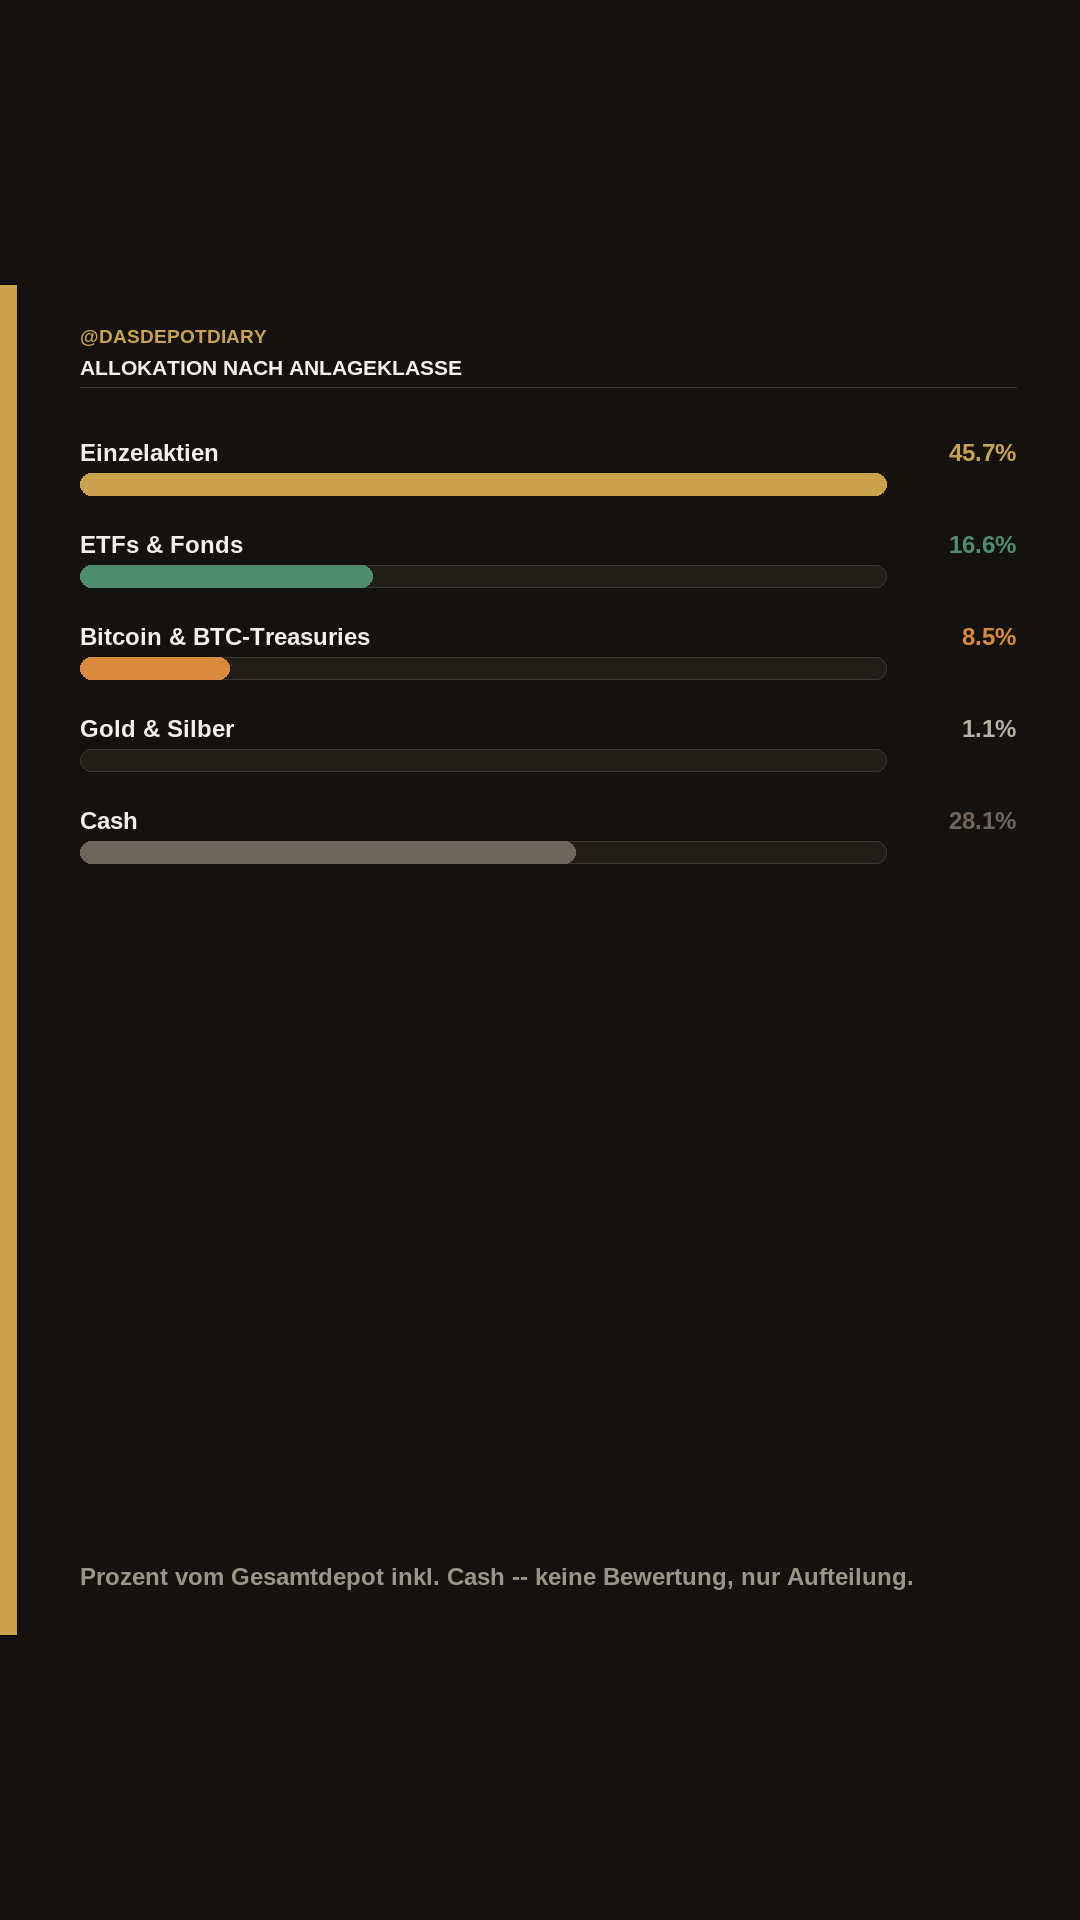
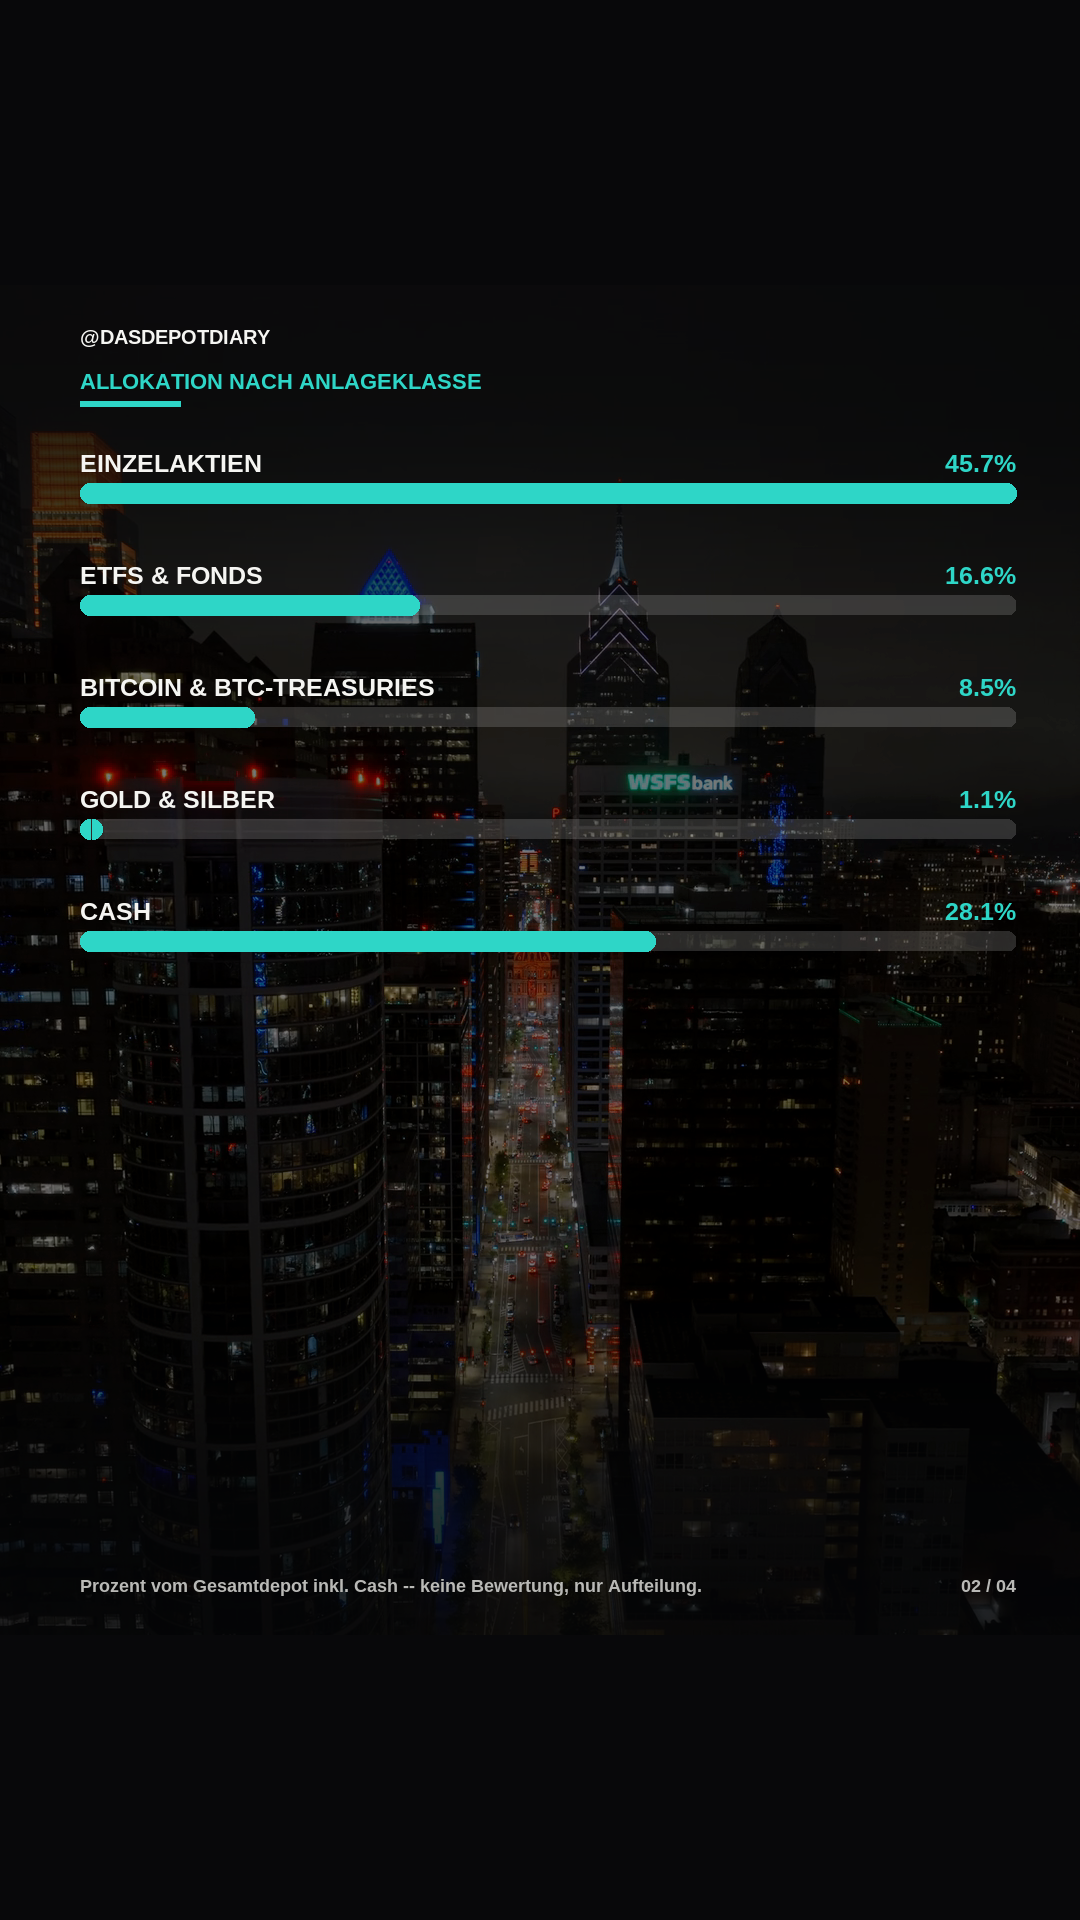
Portfolio-Update im Vermoegensingenieur-Design (dunkle Nacht-Skyline, Teal-Akzent, Pinselstrich) auf Nutzerwunsch. Fire-Zeiten der 4 heutigen Story-Eintraege vorgezogen, damit sie jetzt sofort statt erst am Nachmittag/Abend rausgehen.

diff --git a/posts/personal_portfolio_percent_update.py b/posts/personal_portfolio_percent_update.py
@@ -2,11 +2,12 @@
 Anlageklasse + Top-Positionen, aus den echten (selbst gepflegten) Depot-
 Daten unter data/depot_2026-08.json.
 
-Design: dunkles Creme/Gold, gleiche visuelle Familie wie
-posts/personal_portfolio_update.py (DEPOT-UPDATE). Ein Skyline-Foto+Glas-
-Varianten wurde 2026-09-26 ausprobiert, Nutzer-Feedback aber: "das Depot-
-Allokation hat im alten Stile gepasst" -- also bewusst wieder bei diesem
-flachen Stil geblieben.
+v3 (2026-09-26, Nutzerwunsch: "mach bitte bei meiner Allokation den
+Vermoegensingenieur-Design anwenden"): visuelle Sprache von
+posts/collab_vermoegensingenieur_10k.py uebernommen -- stark abgedunkeltes
+echtes Foto (naechtliche Skyline), fette weisse Grossbuchstaben-Headlines,
+Teal/Cyan-Akzent mit Pinselstrich-Unterstreichung. Eigenstaendig zugeschnitten,
+nicht 1:1 kopiert.
 
 Reine Offenlegung der eigenen Aufteilung -- keine Kursziele, keine Kauf-/
 Verkaufsempfehlung (siehe CLAUDE.md-Regel).
@@ -18,7 +19,7 @@ import json
 import sys
 from pathlib import Path
 
-from PIL import Image, ImageDraw, ImageFont
+from PIL import Image, ImageDraw, ImageEnhance, ImageFilter, ImageFont
 
 sys.path.insert(0, str(Path(__file__).parent.parent))
 import brand as B
@@ -33,27 +34,19 @@ TT_DIR.mkdir(parents=True, exist_ok=True)
 
 W, H = B.FEED_SIZE
 
-BG = "#14120F"
-CARD = "#211E19"
-CARD_BORDER = "#3A352C"
-CREAM = "#F2F0EA"
-MUTED = "#9B9587"
-GOLD = "#C9A24B"
+CREAM = (245, 245, 242)
+MUTED = (185, 185, 182)
+TEAL = (46, 214, 199)
+TRACK = (255, 255, 255, 40)
 
 OWN_HANDLE = "@DASDEPOTDIARY"
-SERIES_TITLE = "DEPOT-UPDATE"
 
-# Feste Kategorie-Reihenfolge + eigene Farbe je Kategorie (kategorial, nicht zyklisch)
-CATEGORY_COLORS = {
-    "Einzelaktien": "#C9A24B",
-    "ETFs & Fonds": "#4E8C6E",
-    "Bitcoin & BTC-Treasuries": "#D98A3D",
-    "Gold & Silber": "#B7B1A4",
-    "Cash": "#6E645A",
-}
-
+# Feste Kategorie-Reihenfolge -- eine Akzentfarbe (Teal) fuer alle Balken,
+# konsistent mit dem Vermoegensingenieur-Stil (eine Signalfarbe, nicht bunt).
 DATA = json.loads((ROOT / "data" / "depot_2026-08.json").read_text(encoding="utf-8"))
 STAND = "14.08.2026"
+
+_SKYLINE_SRC = Image.open(ROOT / "assets" / "skyline_still_1.png").convert("RGB")
 
 
 def font(path, size):
@@ -76,125 +69,160 @@ def wrap_text(draw, text, f, max_w):
     return lines
 
 
-def build_header(draw, subtitle=SERIES_TITLE):
-    y = 40
-    handle_font = font(B.SANS_BOLD, 19)
-    title_font = font(B.SANS_BOLD, 21)
-    draw.text((B.MARGIN_LEFT, y), OWN_HANDLE, font=handle_font, fill=GOLD)
-    y += 30
-    draw.text((B.MARGIN_LEFT, y), subtitle, font=title_font, fill=CREAM)
-    y += 32
-    draw.line([(B.MARGIN_LEFT, y), (W - B.MARGIN_RIGHT, y)], fill=CARD_BORDER, width=1)
-    return y + 22
+def photo_background(seed=1):
+    src = _SKYLINE_SRC
+    sw, sh = src.size
+    scale = max(W / sw, H / sh)
+    resized = src.resize((int(sw * scale), int(sh * scale)))
+    x_off = int((resized.width - W) * (0.3 + 0.1 * (seed % 3)))
+    y_off = int((resized.height - H) * 0.2)
+    cropped = resized.crop((x_off, y_off, x_off + W, y_off + H))
+    darkened = ImageEnhance.Brightness(cropped).enhance(0.42)
+    darkened = ImageEnhance.Contrast(darkened).enhance(1.15)
+    img = darkened.convert("RGB")
+    vignette = Image.new("L", (W, H), 0)
+    vdraw = ImageDraw.Draw(vignette)
+    vdraw.rectangle([0, 0, W, 260], fill=180)
+    vdraw.rectangle([0, H - 220, W, H], fill=180)
+    vignette = vignette.filter(ImageFilter.GaussianBlur(80))
+    black = Image.new("RGB", (W, H), (5, 6, 8))
+    img.paste(black, (0, 0), vignette)
+    return img
 
 
-def draw_disclaimer(draw, text="Keine Anlageberatung -- nur, wie ich selbst aufgestellt bin."):
-    disclaimer_font = font(B.SANS_BOLD, 24)
-    lines = wrap_text(draw, text, disclaimer_font, W - B.MARGIN_LEFT - B.MARGIN_RIGHT)
-    dy = H - 40 - 32 * len(lines)
+def base_slide(seed=1):
+    img = photo_background(seed)
+    draw = ImageDraw.Draw(img)
+    return img, draw
+
+
+def brush_underline(draw, x, y, w, color=TEAL, thickness=8):
+    draw.line([(x, y), (x + w, y)], fill=color, width=thickness)
+
+
+def build_header(draw, y=40):
+    handle_font = font(B.SANS_BOLD, 20)
+    draw.text((B.MARGIN_LEFT, y), OWN_HANDLE, font=handle_font, fill=CREAM)
+    return y + 44
+
+
+def draw_footer(draw, idx, n_total, text="Keine Anlageberatung -- nur, wie ich selbst aufgestellt bin."):
+    disclaimer_font = font(B.SANS_BOLD, 18)
+    lines = wrap_text(draw, text, disclaimer_font, W - B.MARGIN_LEFT - B.MARGIN_RIGHT - 100)
+    dy = H - 36 - 24 * len(lines)
     for line in lines:
         draw.text((B.MARGIN_LEFT, dy), line, font=disclaimer_font, fill=MUTED)
-        dy += 32
+        dy += 24
+    page_font = font(B.SANS_BOLD, 18)
+    page_text = f"{idx:02d} / {n_total:02d}"
+    pw = draw.textlength(page_text, font=page_font)
+    draw.text((W - B.MARGIN_RIGHT - pw, H - 36 - 24 * len(lines)), page_text, font=page_font, fill=MUTED)
+
+
+def bar_row(img, draw, x, y, w, label, pct, max_pct, bar_h=20):
+    label_font = font(B.SANS_BOLD, 25)
+    draw.text((x, y), label, font=label_font, fill=CREAM)
+    pct_font = font(B.SANS_BOLD, 25)
+    pct_text = f"{pct:.1f}%"
+    pw = draw.textlength(pct_text, font=pct_font)
+    draw.text((x + w - pw, y), pct_text, font=pct_font, fill=TEAL)
+    by = y + 34
+    track = Image.new("RGBA", (w, bar_h), (0, 0, 0, 0))
+    tdraw = ImageDraw.Draw(track)
+    tdraw.rounded_rectangle([0, 0, w, bar_h], radius=bar_h // 2, fill=TRACK)
+    img.paste(track, (int(x), int(by)), track)
+    bar_w = max(bar_h, int(w * pct / max_pct))
+    draw.rounded_rectangle([x, by, x + bar_w, by + bar_h], radius=bar_h // 2, fill=TEAL)
+    return by + bar_h
 
 
 def slide_intro():
-    img = Image.new("RGB", (W, H), BG)
-    draw = ImageDraw.Draw(img)
-    build_header(draw, subtitle="NEUE FOLGE")
-    draw.rectangle([0, 0, B.BAR_WIDTH, H], fill=GOLD)
+    img, draw = base_slide(seed=1)
+    y = build_header(draw)
 
-    y = 420
-    draw.text((B.MARGIN_LEFT, y), "Portfolio-Update.", font=font(B.SANS_BOLD, 58), fill=CREAM)
+    eyebrow_font = font(B.SANS_BOLD, 20)
+    draw.text((B.MARGIN_LEFT, y), "NEUE FOLGE", font=eyebrow_font, fill=TEAL)
+    y += 60
+
+    draw.text((B.MARGIN_LEFT, y), "PORTFOLIO-", font=font(B.SANS_BOLD, 70), fill=CREAM)
+    y += 80
+    draw.text((B.MARGIN_LEFT, y), "UPDATE.", font=font(B.SANS_BOLD, 70), fill=CREAM)
     y += 78
-    draw.text((B.MARGIN_LEFT, y), "Wie ich aktuell aufgestellt bin --", font=font(B.SANS_BOLD, 30), fill=GOLD)
-    y += 40
-    draw.text((B.MARGIN_LEFT, y), "mit echten Prozentzahlen.", font=font(B.SANS_BOLD, 30), fill=GOLD)
-    y += 56
-    draw.text((B.MARGIN_LEFT, y), f"Stand: {STAND}", font=font(B.SANS_BOLD, 22), fill=MUTED)
+    brush_underline(draw, B.MARGIN_LEFT, y, 170, thickness=9)
+    y += 50
 
-    draw_disclaimer(draw)
+    sub_font = font(B.SANS_BOLD, 26)
+    for line in wrap_text(draw, "Wie ich aktuell aufgestellt bin -- mit echten Prozentzahlen.",
+                           sub_font, W - B.MARGIN_LEFT - B.MARGIN_RIGHT):
+        draw.text((B.MARGIN_LEFT, y), line, font=sub_font, fill=MUTED)
+        y += 34
+    y += 20
+    draw.text((B.MARGIN_LEFT, y), f"Stand: {STAND}", font=font(B.SANS_BOLD, 21), fill=MUTED)
+
+    draw_footer(draw, 1, 4)
     return img
 
 
 def slide_allocation():
-    img = Image.new("RGB", (W, H), BG)
-    draw = ImageDraw.Draw(img)
-    y = build_header(draw, subtitle="ALLOKATION NACH ANLAGEKLASSE")
-    draw.rectangle([0, 0, B.BAR_WIDTH, H], fill=GOLD)
+    img, draw = base_slide(seed=2)
+    y = build_header(draw)
+
+    label_font = font(B.SANS_BOLD, 22)
+    draw.text((B.MARGIN_LEFT, y), "ALLOKATION NACH ANLAGEKLASSE", font=label_font, fill=TEAL)
+    y += 34
+    brush_underline(draw, B.MARGIN_LEFT, y, 100, thickness=6)
+    y += 46
 
     cats = DATA["categories_mit_cash"]
     max_pct = max(c["percent"] for c in cats)
-    bar_left = B.MARGIN_LEFT
-    bar_max_w = W - B.MARGIN_LEFT - B.MARGIN_RIGHT - 130
-    row_h = 92
-    y += 30
-
+    bar_w = W - B.MARGIN_LEFT - B.MARGIN_RIGHT
     for c in cats:
-        color = CATEGORY_COLORS.get(c["label"], GOLD)
-        label_font = font(B.SANS_BOLD, 24)
-        draw.text((bar_left, y), c["label"], font=label_font, fill=CREAM)
-        pct_font = font(B.SANS_BOLD, 24)
-        pct_text = f"{c['percent']:.1f}%"
-        pw = draw.textlength(pct_text, font=pct_font)
-        draw.text((W - B.MARGIN_RIGHT - pw, y), pct_text, font=pct_font, fill=color)
-        by = y + 34
-        bar_w = int(bar_max_w * c["percent"] / max_pct)
-        draw.rounded_rectangle([bar_left, by, bar_left + bar_max_w, by + 22], radius=11, fill=CARD, outline=CARD_BORDER, width=1)
-        if bar_w > 22:
-            draw.rounded_rectangle([bar_left, by, bar_left + bar_w, by + 22], radius=11, fill=color)
-        y += row_h
+        y = bar_row(img, draw, B.MARGIN_LEFT, y, bar_w, c["label"].upper(), c["percent"], max_pct)
+        draw = ImageDraw.Draw(img)
+        y += 58
 
-    draw_disclaimer(draw, "Prozent vom Gesamtdepot inkl. Cash -- keine Bewertung, nur Aufteilung.")
+    draw_footer(draw, 2, 4, "Prozent vom Gesamtdepot inkl. Cash -- keine Bewertung, nur Aufteilung.")
     return img
 
 
 def slide_top_positions():
-    img = Image.new("RGB", (W, H), BG)
-    draw = ImageDraw.Draw(img)
-    y = build_header(draw, subtitle="TOP-POSITIONEN")
-    draw.rectangle([0, 0, B.BAR_WIDTH, H], fill=GOLD)
+    img, draw = base_slide(seed=3)
+    y = build_header(draw)
+
+    label_font = font(B.SANS_BOLD, 22)
+    draw.text((B.MARGIN_LEFT, y), "TOP-POSITIONEN", font=label_font, fill=TEAL)
+    y += 34
+    brush_underline(draw, B.MARGIN_LEFT, y, 100, thickness=6)
+    y += 42
 
     positions = DATA["top_positions"]
     max_pct = max(p["percent"] for p in positions)
-    bar_left = B.MARGIN_LEFT
-    bar_max_w = W - B.MARGIN_LEFT - B.MARGIN_RIGHT - 130
-    row_h = 74
-    y += 24
-
+    bar_w = W - B.MARGIN_LEFT - B.MARGIN_RIGHT
     for p in positions:
-        name_font = font(B.SANS_BOLD, 23)
-        draw.text((bar_left, y), p["name"], font=name_font, fill=CREAM)
-        pct_font = font(B.SANS_BOLD, 23)
-        pct_text = f"{p['percent']:.1f}%"
-        pw = draw.textlength(pct_text, font=pct_font)
-        draw.text((W - B.MARGIN_RIGHT - pw, y), pct_text, font=pct_font, fill=GOLD)
-        by = y + 30
-        bar_w = int(bar_max_w * p["percent"] / max_pct)
-        draw.rounded_rectangle([bar_left, by, bar_left + bar_max_w, by + 14], radius=7, fill=CARD, outline=CARD_BORDER, width=1)
-        if bar_w > 14:
-            draw.rounded_rectangle([bar_left, by, bar_left + bar_w, by + 14], radius=7, fill=GOLD)
-        y += row_h
+        y = bar_row(img, draw, B.MARGIN_LEFT, y, bar_w, p["name"].upper(), p["percent"], max_pct, bar_h=14)
+        draw = ImageDraw.Draw(img)
+        y += 40
 
-    draw_disclaimer(draw, "Meine groessten Einzelpositionen nach Depotanteil -- keine Kaufempfehlung.")
+    draw_footer(draw, 3, 4, "Meine groessten Einzelpositionen nach Depotanteil -- keine Kaufempfehlung.")
     return img
 
 
 def slide_cta():
-    img = Image.new("RGB", (W, H), BG)
-    draw = ImageDraw.Draw(img)
-    build_header(draw, subtitle="ZUM SCHLUSS")
-    draw.rectangle([0, 0, B.BAR_WIDTH, H], fill=GOLD)
+    img, draw = base_slide(seed=4)
+    y = build_header(draw)
+    y += 80
 
-    y = 460
-    draw.text((B.MARGIN_LEFT, y), "So bin ich aktuell", font=font(B.SANS_BOLD, 44), fill=CREAM)
-    y += 58
-    draw.text((B.MARGIN_LEFT, y), "aufgestellt.", font=font(B.SANS_BOLD, 44), fill=CREAM)
-    y += 70
-    draw.text((B.MARGIN_LEFT, y), "Wie sieht deine Aufteilung aus?", font=font(B.SANS_BOLD, 28), fill=GOLD)
-    y += 38
-    draw.text((B.MARGIN_LEFT, y), "Schreib's in die Kommentare.", font=font(B.SANS_BOLD, 28), fill=GOLD)
+    title_font = font(B.SANS_BOLD, 48)
+    for line in ["WIE SIEHT DEINE", "AUFTEILUNG AUS?"]:
+        draw.text((B.MARGIN_LEFT, y), line, font=title_font, fill=CREAM)
+        y += 58
+    brush_underline(draw, B.MARGIN_LEFT, y + 4, 170, thickness=9)
+    y += 60
 
-    draw_disclaimer(draw)
+    sub_font = font(B.SANS_BOLD, 26)
+    draw.text((B.MARGIN_LEFT, y), "Schreib's in die Kommentare.", font=sub_font, fill=TEAL)
+
+    draw_footer(draw, 4, 4)
     return img
 
 
@@ -205,7 +233,7 @@ def main():
 
     for i in range(1, len(slides) + 1):
         src = Image.open(IG_DIR / f"slide_{i}.png")
-        canvas = Image.new("RGB", B.STORY_SIZE, BG)
+        canvas = Image.new("RGB", B.STORY_SIZE, (8, 8, 10))
         x = (B.STORY_SIZE[0] - src.width) // 2
         y = (B.STORY_SIZE[1] - src.height) // 2
         canvas.paste(src, (x, y))
@@ -215,7 +243,7 @@ def main():
     cols = min(4, n)
     rows = (n + cols - 1) // cols
     gap = 16
-    sheet = Image.new("RGB", (W * cols + gap * (cols + 1), H * rows + gap * (rows + 1)), (25, 25, 25))
+    sheet = Image.new("RGB", (W * cols + gap * (cols + 1), H * rows + gap * (rows + 1)), (12, 12, 14))
     for i in range(1, n + 1):
         im = Image.open(IG_DIR / f"slide_{i}.png")
         r, c = divmod(i - 1, cols)
